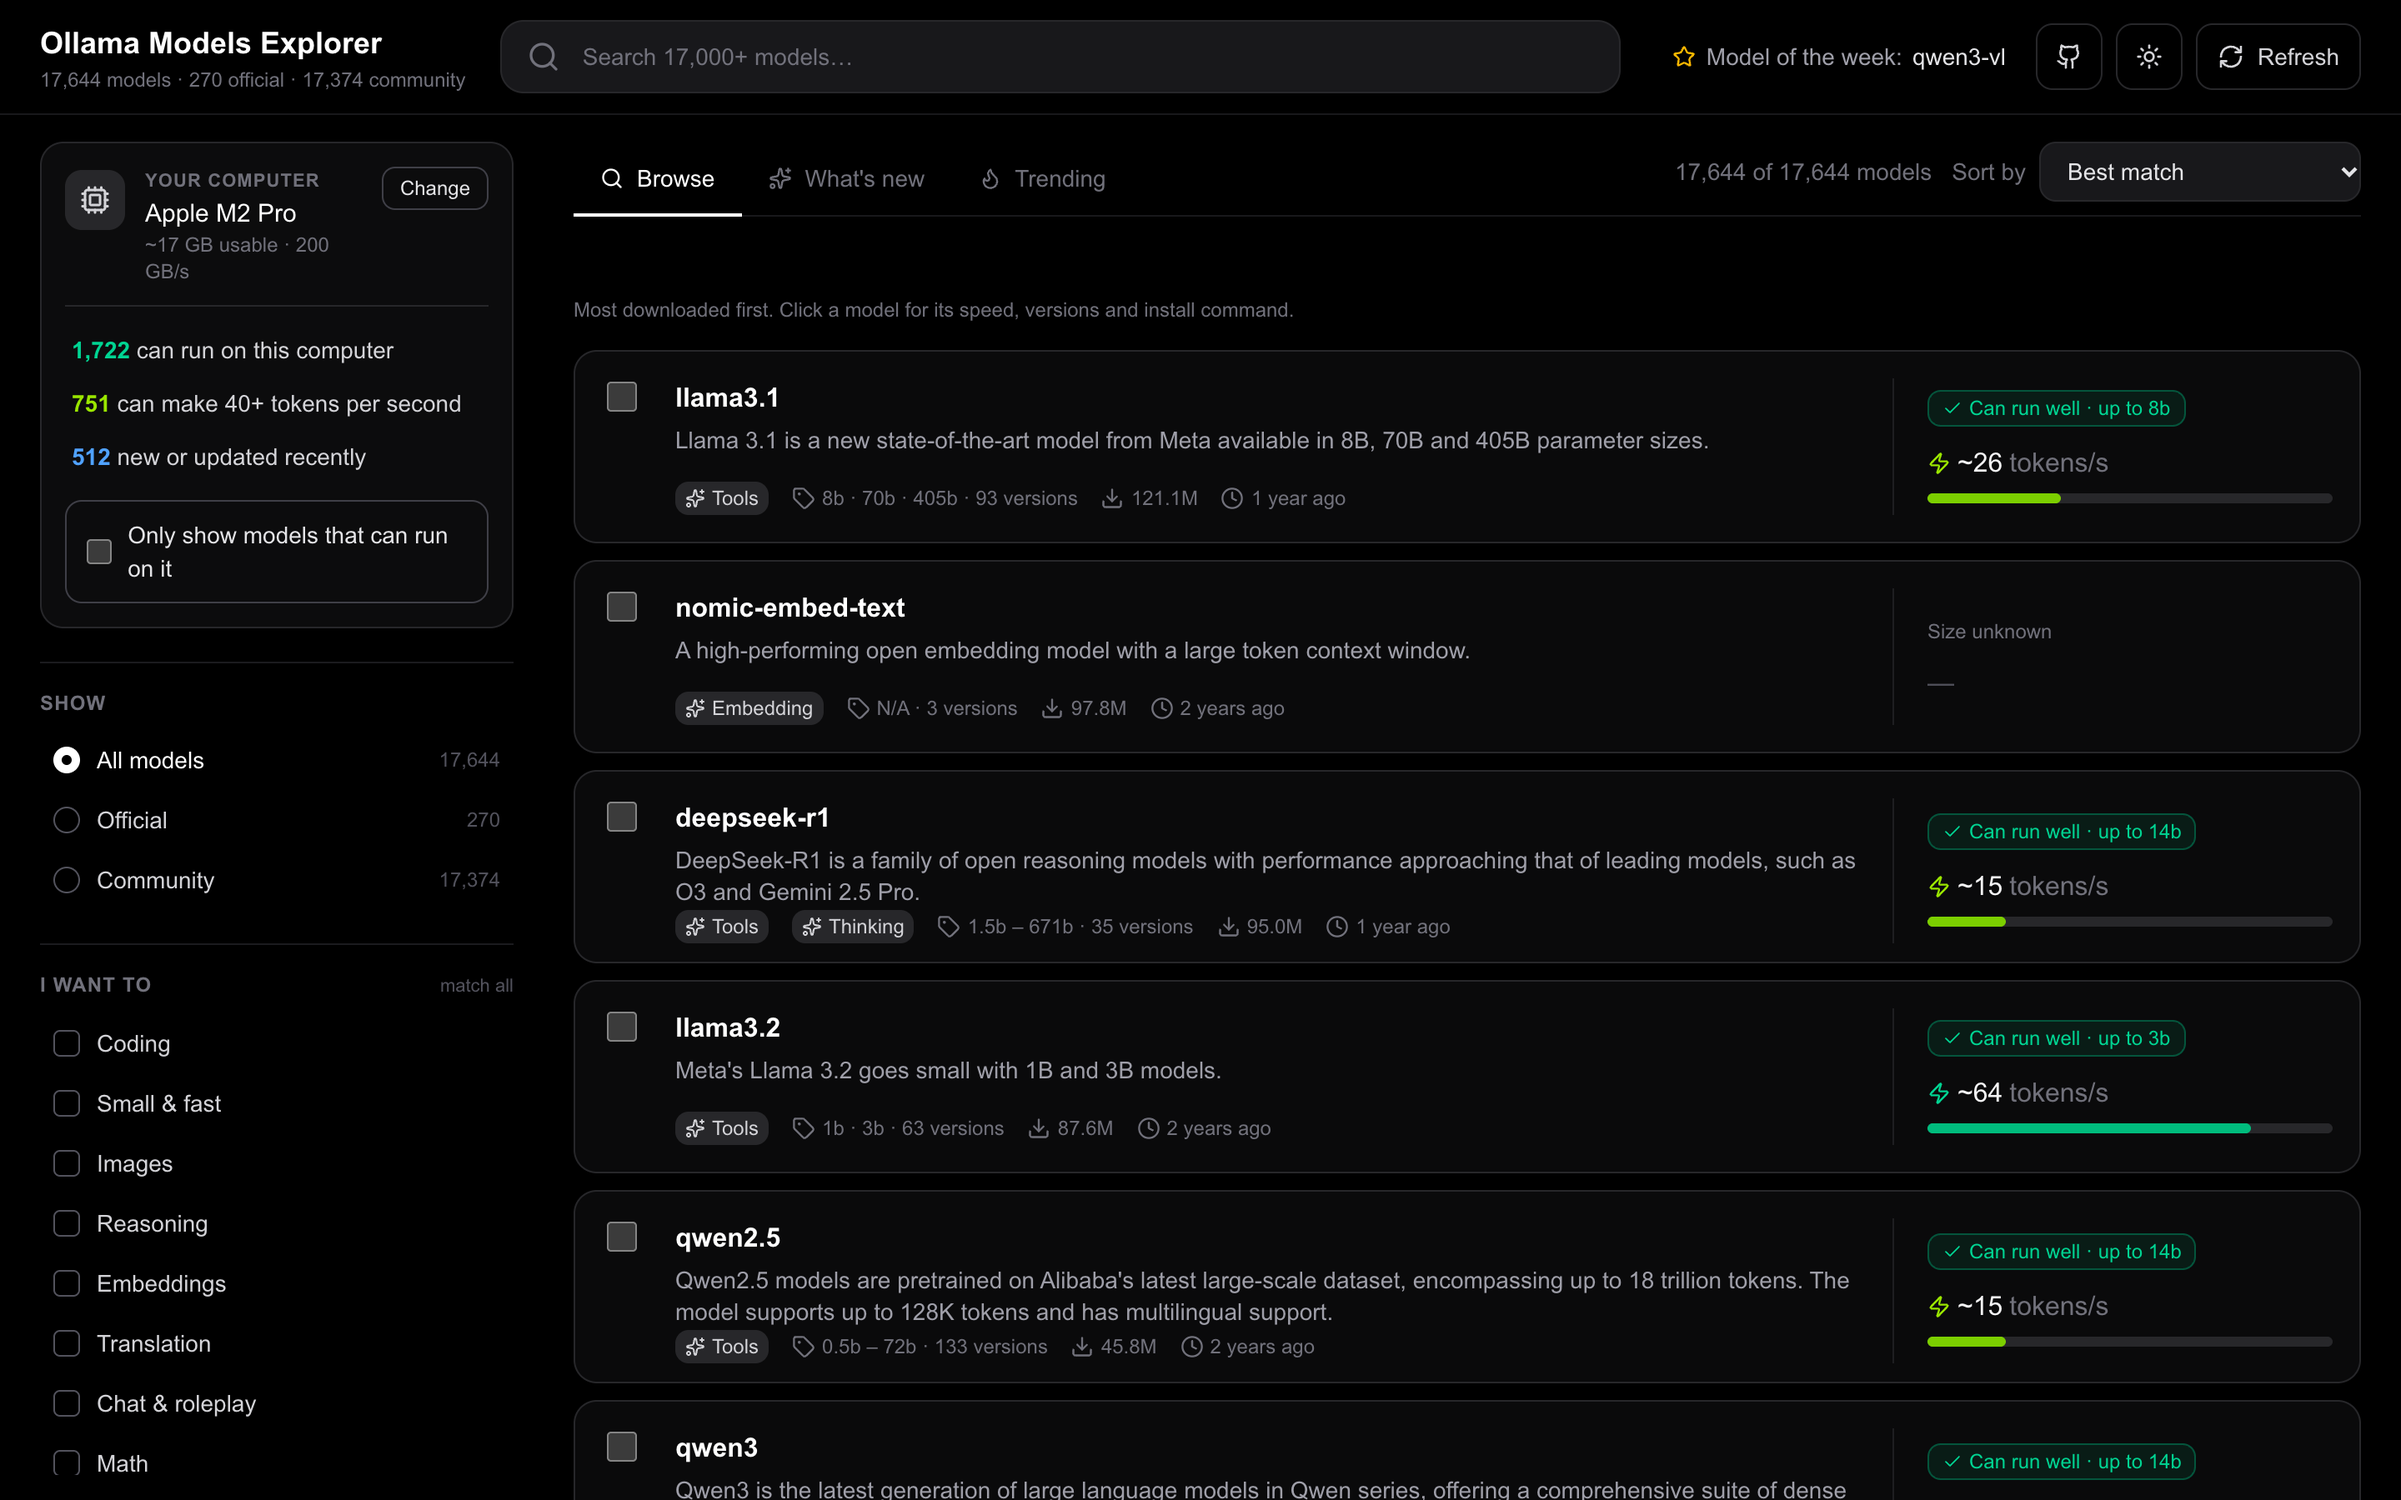
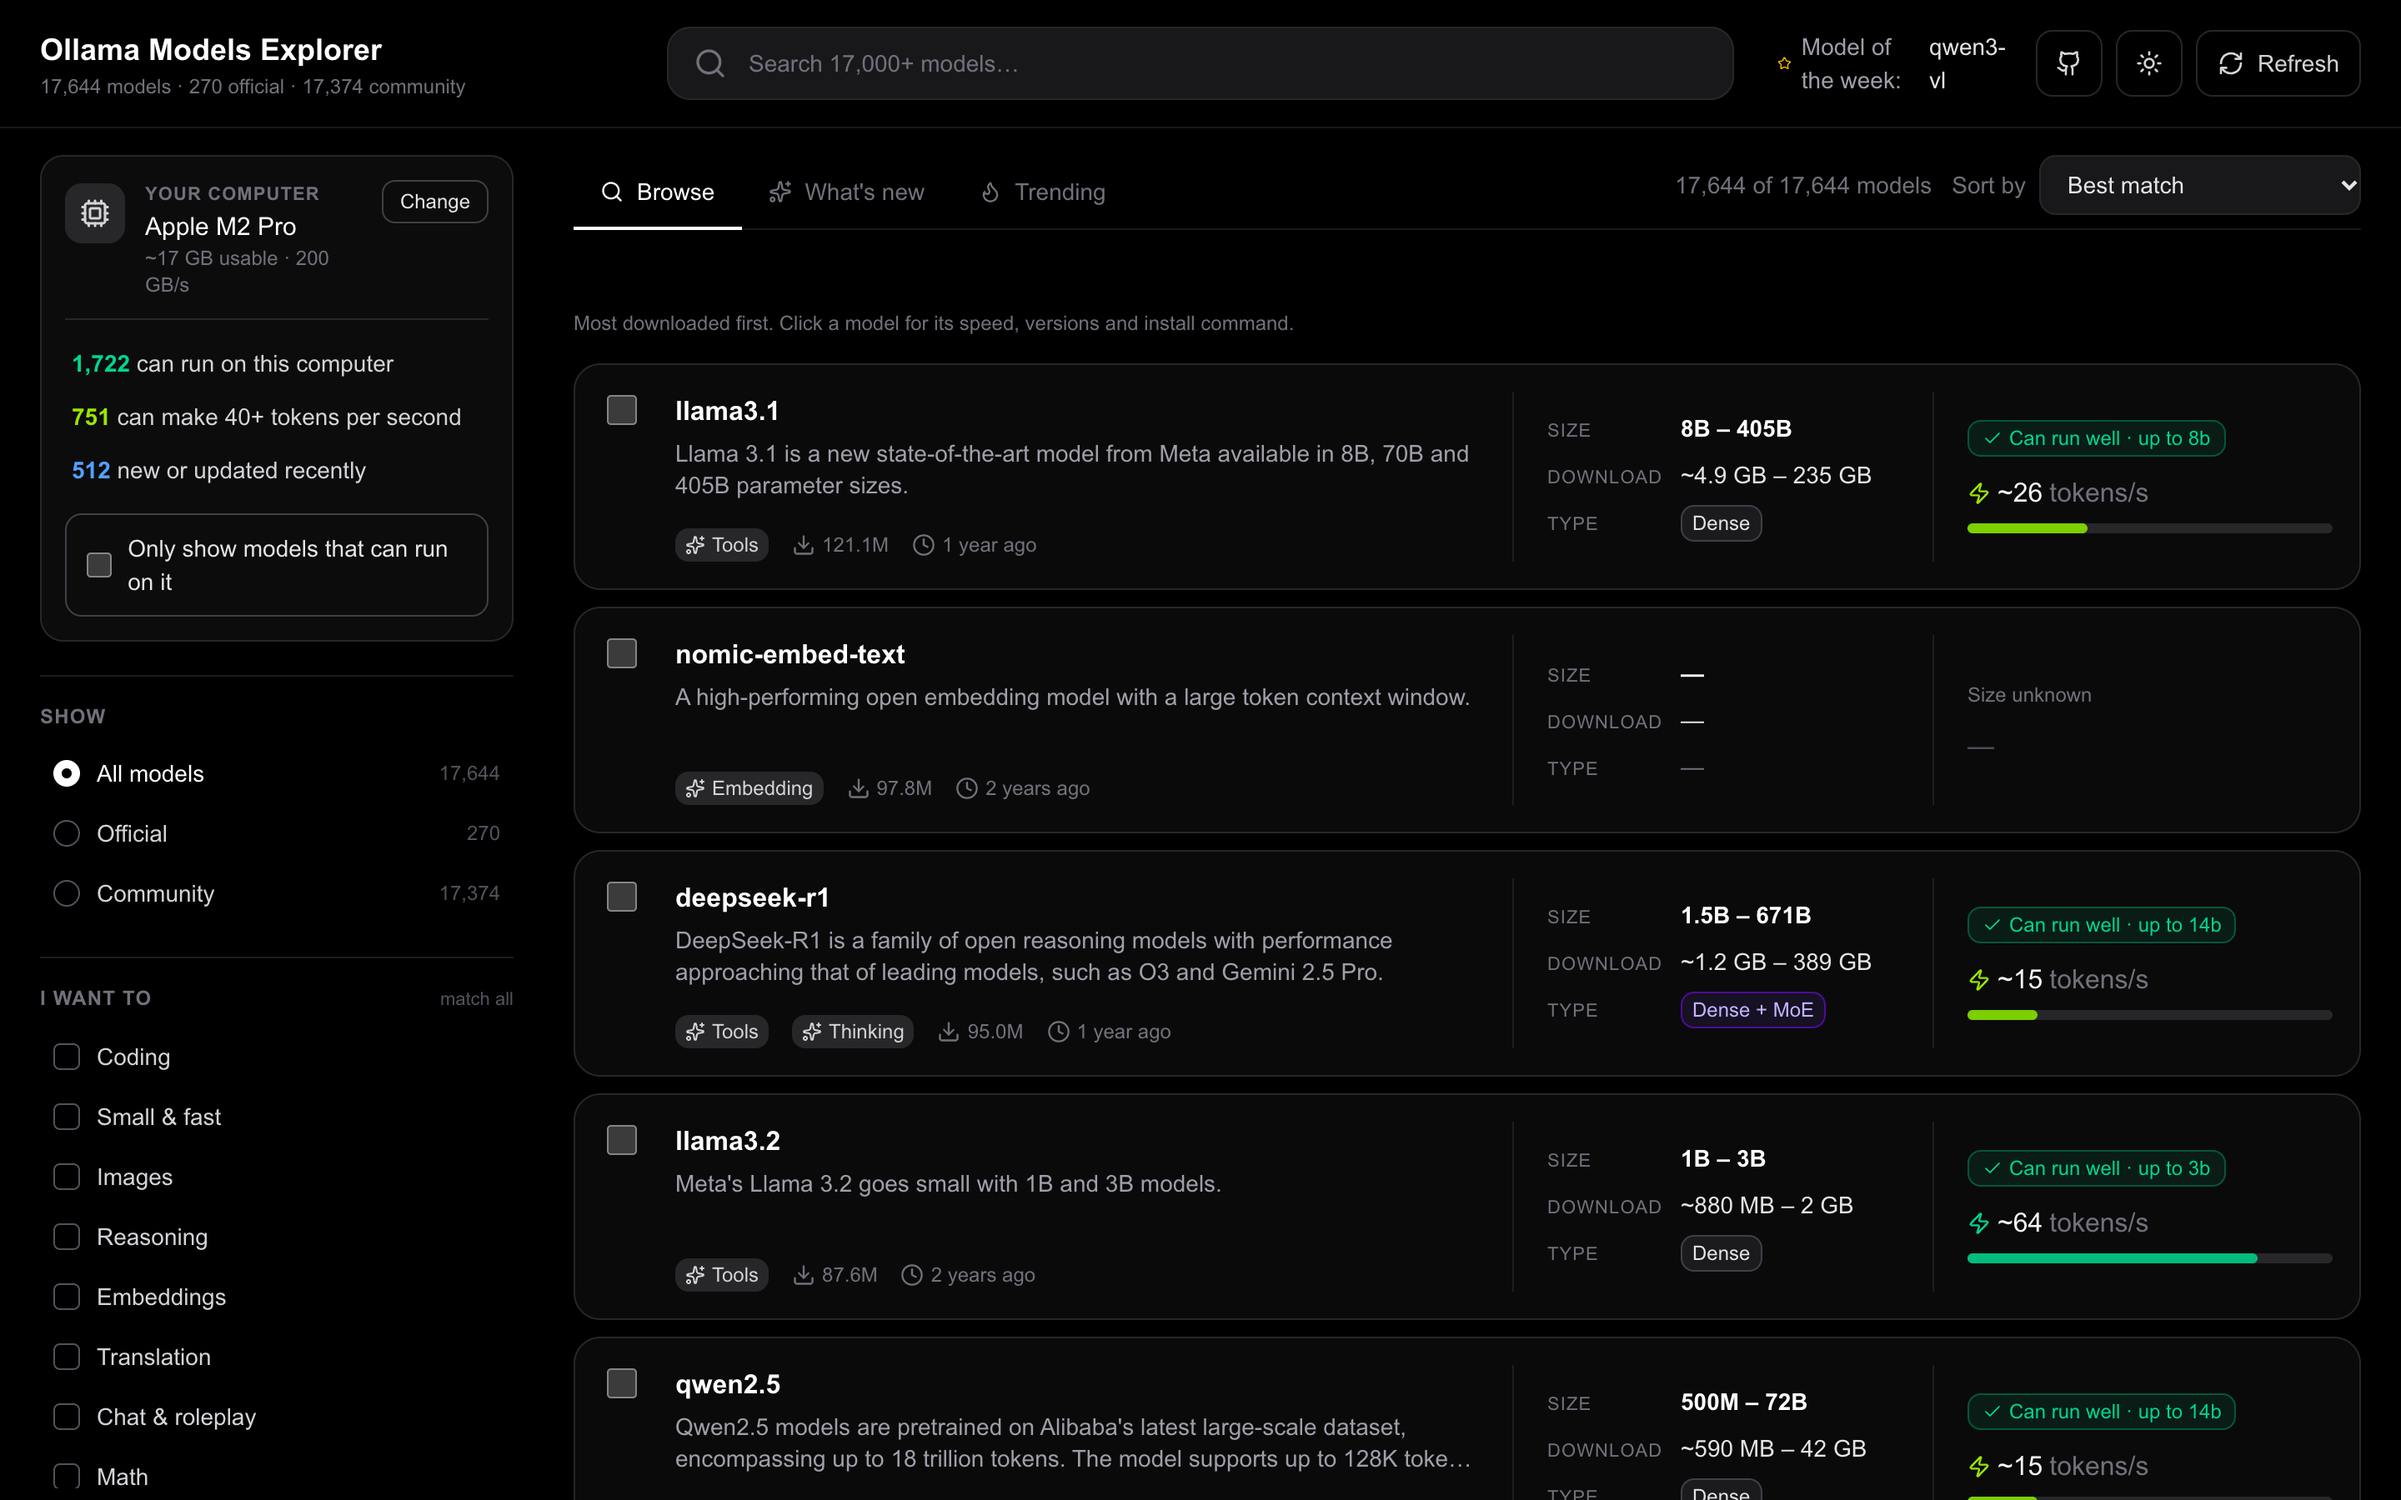
README and screenshots for the new rows; details panel loading

diff --git a/README.md b/README.md
@@ -44,7 +44,7 @@ Or deploy it to Vercel, Netlify or any Node host. If you like it, a star on GitH
 </p>
 
 <p align="center">
-  <img src="docs/screenshots/tooltips.png" width="49%" alt="Hover any number or badge for a plain-words explanation">
+  <img src="docs/screenshots/tooltips.png" width="49%" alt="Hover any number or badge, like MoE, for a plain-words explanation">
   <img src="docs/screenshots/details.png" width="49%" alt="Details panel: can it run, how fast, install command, every version">
 </p>
 
@@ -66,9 +66,11 @@ Or deploy it to Vercel, Netlify or any Node host. If you like it, a star on GitH
 
 **Will it run on my computer, and how fast?** The page finds your graphics card (or Apple chip) and memory by itself, with nothing to type, marks every model **Can run well / Barely fits / Too big to run / Cloud**, and estimates **tokens per second** (about 0.75 words each), for example `~27 tokens/s`. If the guess is wrong, one tap picks the closest computer. "Only show models that can run on it" hides the rest. (Browsers hide exact specs, so it is an estimate. Speed = memory speed × 0.65 ÷ the model's size; mixture-of-experts models, which only use part of themselves for each word, are handled; expect ±30%. Official models use real download sizes, the rest are estimated from the parameter count.)
 
+**Every row shows the facts up front:** the size range (for example `8B – 405B`), the download size, and the type: **Dense** (all of the model works for every word) or **MoE** (mixture of experts: only a few parts work for each word, so it is faster than its size suggests). No clicking needed.
+
 **Hover anything** (a badge, a number, a tab, a button) for a tooltip that says in plain words what it means and how it was worked out.
 
-**Click any model** for a details panel: will it run and how fast, the exact `ollama run` command (with a copy button, including the best version for your computer), every version with its size and speed, context window, downloads and more.
+**Click any model** for a details panel (it shows a loading shimmer while the versions load): will it run and how fast, the exact `ollama run` command (with a copy button, including the best version for your computer), every version with its size and speed, context window, downloads and more.
 
 **Find the right one**
 - **I want to…** (pick several, a model must match all): Coding, Small & fast, Images, Reasoning, Embeddings, Translation, Chat & roleplay, Math, Tool use
